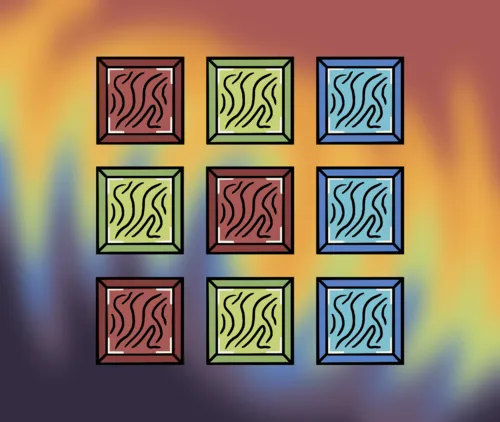
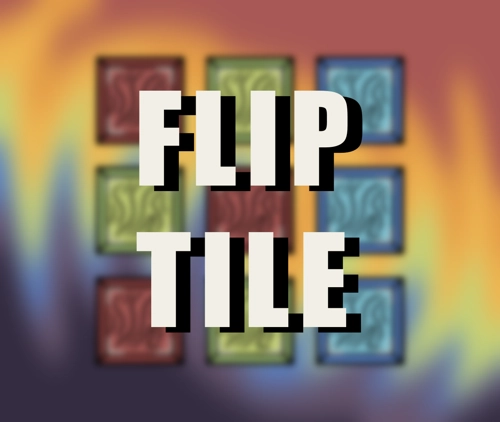
Added a README to get started making games and updated cover art for games
- Now have a generic-game-blueprint to start a new game!

diff --git a/games/Generic-Game-Blueprint/GameName.html b/games/Generic-Game-Blueprint/GameName.html
@@ -1,0 +1,90 @@
+<!DOCTYPE html>
+<html>
+  <head>
+    <!-- Init metadata -->
+    <meta charset="UTF-8" />
+    <!-- user-scalable=no prevents double click to zoom on phones!!! -->
+    <meta
+      name="viewport"
+      content="width=device-width, initial-scale=1.0, user-scalable=no"
+    />
+    <title>Game Name</title>
+
+    <!-- Defining "urgent" css styles that I want to guarentee render in, 
+     hence why they are referenced in the header instead of the styles.css -->
+    <style>
+      body {
+        margin: 0;
+        padding: 0;
+        position: relative;
+        background-color: black;
+        background-image: url("webps/Background.webp");
+        background-repeat: no-repeat; /* no repeat */
+        background-position: center; /* position relative to the top or center */
+        background-size: cover; /* Auto width, auto height */
+        overflow: hidden; /* Hide both horizontal and vertical scroll bars */
+      }
+    </style>
+
+    <link
+      rel="icon"
+      href="../../Shared-General-Assets/webps/Mars_circle_logo_small.webp"
+    />
+
+    <!-- Inport css files used for the game -->
+    <link
+      rel="stylesheet"
+      href="../../Shared-General-Assets/css/general-shared-styles.css"
+    />
+    <link
+      rel="stylesheet"
+      href="../Shared-Game-Assets/css/games-shared-styles.css"
+    />
+    <link rel="stylesheet" href="css/styles.css" />
+  </head>
+  <body class="disable-browser-default-touch-actions">
+    <!-- Play anim where screen starts black with a loading screen 
+     and fades when page is openned -->
+    <div
+      class="game-load-in-overlay overlay-styler disable-browser-default-touch-actions"
+    >
+      <div
+        class="loading-content overlay-styler disable-browser-default-touch-actions"
+      >
+        <img
+          src="../../Shared-General-Assets/webps/Mars_circle.webp"
+          alt="Loading Image"
+          class="disable-browser-default-touch-actions"
+        />
+        <p>Loading...</p>
+      </div>
+    </div>
+
+    <!-- Include the non-module scripts used -->
+    <script src="../Shared-Game-Assets/js/game_header.js"></script>
+    <script src="../Libraries/phaser.js"></script>
+
+    <!-- Call JS functions (using module so that we can import and call modules) -->
+    <script type="module">
+      // Import modules
+      import { LaunchGame } from "./js/game.js";
+
+      // Wait for window (aka all content) to load in before calling functions
+      window.onload = function () {
+        createGameHeader(
+          "Name",
+          "./webps/game_logo.webp",
+          83, // gameLogoContainerLeftMarginPercentageComputer
+          72, // gameLogoContainerLeftMarginPercentagePhone
+          120, // gameTitleXShiftPercentage
+          -90 // gameTitleYShiftPercentage
+        );
+
+        // Launch the game!
+        LaunchGame();
+
+        // Add more functions here..
+      };
+    </script>
+  </body>
+</html>

diff --git a/games/Generic-Game-Blueprint/js/game.js b/games/Generic-Game-Blueprint/js/game.js
@@ -1,22 +1,20 @@
 /**
- * @module BoidGame
+ * @module GameName
  *
- * @author Shane Bonkowski
+ * @author Author Name
  */
 
 import { setZOrderForSharedElements } from "./zOrdering.js";
-import { MainGameScene } from "./main-game-scene.js"; // note: this imports the class, NOT the instance of the class. Use scene.isInteracting for e.g. to access that variable of the main game scene
+// note: this imports the class, NOT the instance of the class.
+// Use scene.isInteracting for e.g. to access that variable of
+// the main game scene
+import { MainGameScene } from "./main-game-scene.js";
 
-// Export so other scripts can access this
 export function LaunchGame() {
-  // Initialize Phaser Game
   var config = {
-    // Game canvas initialization
     type: Phaser.AUTO,
     width: window.innerWidth,
     height: window.innerHeight,
-    // Set the canvas to be transparent, since we handle
-    // background in better-boids-styles.css
     transparent: true,
     scale: {
       mode: Phaser.Scale.RESIZE,
@@ -28,8 +26,6 @@ export function LaunchGame() {
   var game = new Phaser.Game(config);
 
   updateBodySizeWithWindowResize();
-
-  // Set the Z order of all elements that are shared among scenes (e.g. canvas, header, etc.)
   setZOrderForSharedElements(game);
 }
 

diff --git a/games/Shared-Game-Assets/js/game_header.js b/games/Shared-Game-Assets/js/game_header.js
@@ -14,7 +14,7 @@
  * a user back to the main html page, as well as a logo
  * for the given game.
  * @param {string} gameName - The name of the game.
- * @param {string} gameIconSrc - The local path to the game icon image.
+ * @param {string} gameIconSrc - The local path to the game icon image. Must be 200 by 200 px!
  * @param {number} gameLogoContainerLeftMarginPercentageComputer - The left margin percentage for the game logo container on a computer screen.
  * @param {number} gameLogoContainerLeftMarginPercentagePhone - The left margin percentage for the game logo container on a phone screen.
  * @param {number} gameTitleXShiftPercentage - The horizontal shift percentage for the game title.
@@ -92,7 +92,7 @@ function createGameHeader(
   window.addEventListener("resize", updateGameLogoContainer);
 
   var gameLogoImage = document.createElement("img");
-  gameLogoImage.src = gameIconSrc;
+  gameLogoImage.src = gameIconSrc; // Must be 200 by 200 px!
   gameLogoImage.alt = gameName;
   gameLogoImage.classList.add("game-logo-image");
   gameLogoImage.classList.add("disable-browser-default-touch-actions");

diff --git a/games/Generic-Game-Blueprint/css/styles.css b/games/Generic-Game-Blueprint/css/styles.css
@@ -1,0 +1,34 @@
+/* Import constants */
+@import "../../../Shared-General-Assets/css/general-shared-constants.css";
+
+/* Define variables for horizontal / computer screens */
+:root {
+  /* Define variables */
+}
+
+/* Media query to override CONSTANT values for vertical screens (portrait orientation) */
+@media screen and (orientation: portrait), (max-width: 600px) {
+  :root {
+    /* Define variables */
+  }
+}
+
+/* Main page attributes, such as background, font, etc. */
+@font-face {
+  font-family: MyCustomFont;
+  src: url("../../../Shared-General-Assets/fonts/Ronysiswadi15Bold-6YAwY.ttf")
+    format("truetype");
+  font-weight: bold;
+}
+@font-face {
+  font-family: MyCustomFont;
+  src: url("../../../Shared-General-Assets/fonts/Ronysiswadi15-51Dv8.ttf")
+    format("truetype");
+  font-weight: normal;
+}
+
+body {
+  font-family: MyCustomFont, sans-serif;
+  /* Background-related styles for body are defined in the .html file 
+  since they are urgent and we want to guarentee those render in */
+}

diff --git a/Main-Website-Assets/js/game_box.js b/Main-Website-Assets/js/game_box.js
@@ -6,7 +6,7 @@
 
 /**
  * Creates a game box containing an image button linked to a game and a description of the game.
- * @param {string} imageSrc - The source URL (local path in this case) of the image for the game button.
+ * @param {string} imageSrc - The source URL (local path in this case) of the image for the game button. Must be 500 by 422 px!
  * @param {string} linkUrl - The URL of the game page or website to be taken to when game is clicked on.
  * @param {string} titleText - The title text to display for the game.
  * @param {string} gameDescriptionText - The description text of the game.
@@ -32,7 +32,8 @@ function createGameBox(
   buttonLinkElement.href = linkUrl;
   buttonLinkElement.classList.add("game-box-button-link-anchor");
 
-  // Create an image element for the button
+  // Create an image element for the button.
+  // Image must be 500 by 422 px!
   var imageButton = document.createElement("img");
   imageButton.src = imageSrc;
   imageButton.classList.add("game-button");

diff --git a/games/Generic-Game-Blueprint/js/main-game-scene.js b/games/Generic-Game-Blueprint/js/main-game-scene.js
@@ -1,0 +1,43 @@
+/**
+ * @module GameNameMainGameScene
+ *
+ * @author Author Name
+ */
+
+import { setZOrderForMainGameElements } from "./zOrdering.js";
+import { Physics } from "../../Shared-Game-Assets/js/physics.js";
+
+export class MainGameScene extends Phaser.Scene {
+  constructor() {
+    super({ key: "MainGameScene" });
+    this.gameStarted = false;
+  }
+
+  preload() {
+    // Preload assets if needed
+    // this.load.image("Image Name", "./webps/image.webp");
+  }
+
+  create() {
+    setZOrderForMainGameElements(this.game);
+    this.subscribeToEvents();
+  }
+
+  update(time, delta) {
+    if (this.gameStarted) {
+      // Perform physics updates on physicsUpdateInterval
+      if (
+        time - Physics.lastPhysicsUpdateTime >=
+        Physics.physicsUpdateInterval
+      ) {
+        Physics.performPhysicsUpdate(time);
+
+        // Do physics things here ...
+      }
+    }
+  }
+
+  subscribeToEvents() {
+    // Subscribe to events here
+  }
+}

diff --git a/games/Generic-Game-Blueprint/js/zOrdering.js b/games/Generic-Game-Blueprint/js/zOrdering.js
@@ -1,0 +1,24 @@
+/**
+ * @module GameNameZOrdering
+ *
+ * @author Author Name
+ */
+
+export function setZOrderForSharedElements(game) {
+  // Set the depth of the game canvas to be all the way in the back
+  game.canvas.style.position = "absolute";
+  game.canvas.style.left = "0";
+  game.canvas.style.top = "0";
+  game.canvas.style.zIndex = "0";
+
+  // Get a reference to the css objects we want to position
+  var gameHeader = document.querySelector(".game-header-banner");
+
+  // Set the z-index property for all other objs
+  gameHeader.style.zIndex = "1";
+}
+
+export function setZOrderForMainGameElements(game) {
+  // Set the depth of any extra elements that main-game-scene.js adds or requires
+  // that are unique to those in setZOrderForSharedElements()
+}

diff --git a/games/Flip-Tile-Game/js/game.js b/games/Flip-Tile-Game/js/game.js
@@ -15,10 +15,10 @@ export function LaunchGame() {
     type: Phaser.AUTO,
     width: window.innerWidth,
     height: window.innerHeight,
-    transparent: true, // Set the canvas to be transparent, since we handle background in better=boids-styles.js
+    // Set the canvas to be transparent, since we handle background in flip-tile-styles.css
+    transparent: true,
     scale: {
       mode: Phaser.Scale.RESIZE,
-      // parent: "phaser-example",
       autoCenter: Phaser.Scale.CENTER_BOTH,
     },
     scene: [MainGameScene],
